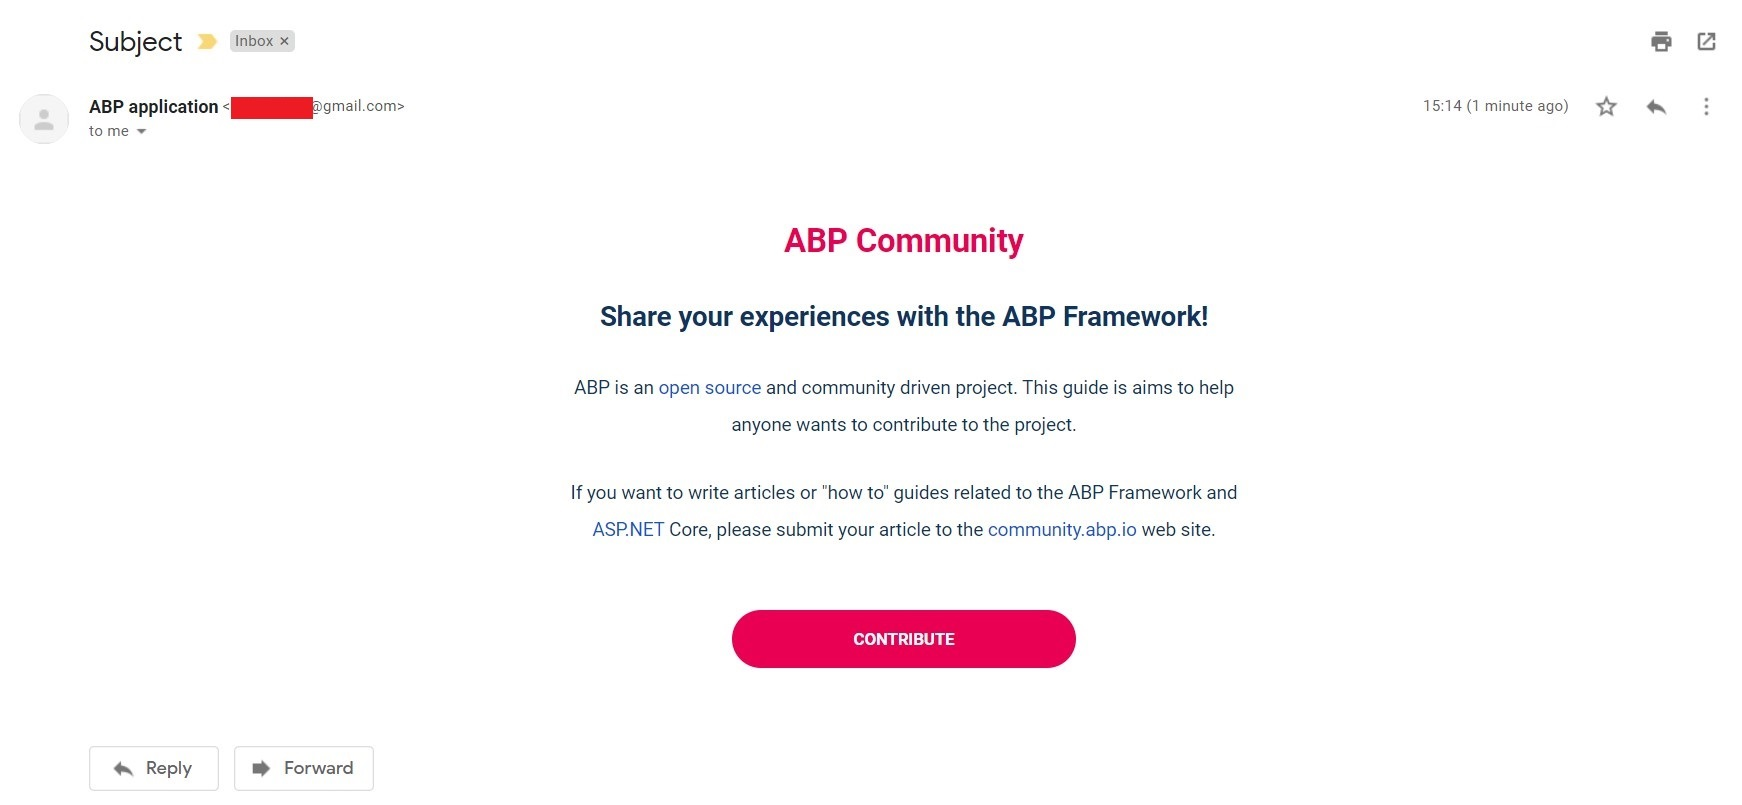
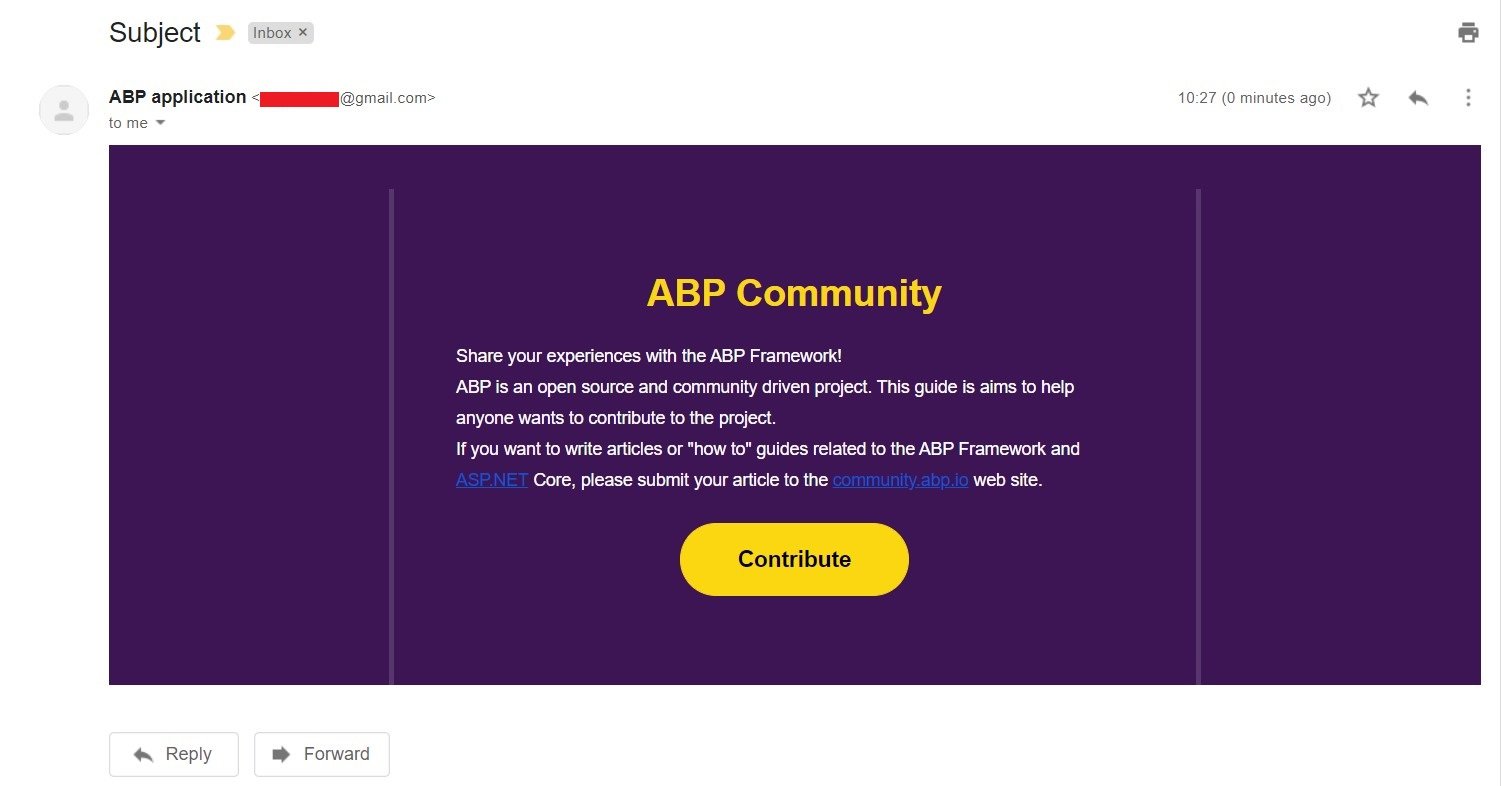
Update POST.md

diff --git a/docs/en/Community-Articles/2020-09-09-Replacing-Email-Template-and-Sending-Emails/POST.md b/docs/en/Community-Articles/2020-09-09-Replacing-Email-Template-and-Sending-Emails/POST.md
@@ -2,7 +2,7 @@
 
 ## Introduction
 
-Hi, in this step by step article, we will send an email by using standard email template and then we will replace the standard email template with our new created template, thanks to [Text Templating System](https://docs.abp.io/en/abp/latest/Text-Templating#replacing-the-existing-templates) and [Virtual File System](https://docs.abp.io/en/abp/latest/Virtual-File-System).
+Hi, in this step by step article, we will send an email by using standard email template and then we will replace the standard email template with our new created template, thanks to [Text Templating System](https://docs.abp.io/en/abp/latest/Text-Templating#replacing-the-existing-templates) and [Virtual File System](https://docs.abp.io/en/abp/latest/Virtual-File-System). Let's start by explaining what these systems do.
 
 * ABP framework provides a strong and flexible [Text Templating System](https://docs.abp.io/en/abp/latest/Text-Templating). So, we can use the text templating system to create dynamic email contents on a template and a model.
 
@@ -194,7 +194,7 @@ namespace TemplateReplace
 
 ```
 
-* `NullEmailSender` is a built-in class that implements the `IEmailSender`, but writes email contents to the standard log system, rather than actually sending the emails. This class can be useful especially in development time where you generally don't want to send real emails. Therefore ABP framework defined this by default. But we want to send real emails, so we must remove these lines or we should take it to the comment line.
+* `NullEmailSender` is a built-in class that implements the `IEmailSender`, but writes email contents to the standard log system, rather than actually sending the emails. This class can be useful especially in development time where you generally don't want to send real emails. Therefore ABP framework defined this by default. But we want to send real emails, so we must remove these lines or we must take it to the comment line.
 
 * The last thing we need to do is delete the default email settings from `appsettings.json` file in `TemplateReplace.Web`.
 
@@ -210,68 +210,166 @@ namespace TemplateReplace
 
 * So far we've sent mail by using standard email template of ABP. But we may want to replace the email template with the new one. We can achieve this by following the `Text Templating` [documentation](https://docs.abp.io/en/abp/latest/Text-Templating#replacing-the-existing-templates).
 
-* In this article, I will create a email template by using free template generator named `Bee`. You can reach the free templates from [here](https://beefree.io/templates/free/).
+* In this article, I will create a email template by using free template generator named **Bee**. You can reach the free templates from [here](https://beefree.io/templates/free/).
 
-* After choosing our free template, we can create a new **email template**. So, create a folder named `Templates` under `Emailing` folder in `TemplateReplace.Domain` and add `EmailTemplate.tpl` file inside of it. And copy-paste the below content or your free template's content.
+* When we find a template for our purpose, we can hover the link and click the get started button to edit the template. (I chose a template named "gdpr".)
+
+* Here, you can edit your template as below. (You can delete or add sections, edit texts, and so on.)
+
+![bee](bee.gif)
+
+> **Note:** After editing our template, we need to export it to reach our created template's content. You can see the **export** button top-right of the template editing page.
+
+* After choosing and editing our free template, we can create a new **email template** in our project. For this, create a folder named `Templates` under `Emailing` folder in `TemplateReplace.Domain` and add `EmailTemplate.tpl` file inside of it. And copy-paste the below content or your template's content.
 
 ```tpl
-<!DOCTYPE html>
-<html lang="en">
-<head>
-    <meta charset="UTF-8">
-    <meta name="viewport" content="width=device-width, initial-scale=1.0">
-    <style>
-        a {
-          text-decoration: none !important;
-        }
-        td img {
-            color: #0f3462;
-        }
-        
-        table {
-            max-width: 650px;
-        }
-    </style>
-</head>
-<body>
-<div class="container">
-    <table border="0" align="center" cellspacing="0" cellpadding="0" bgcolor="white" class="email-template">
-        <tr>
-            <td>
-                <table border="0" cellspacing="0" cellpadding="0" style="color:#0f3462; font-family: sans-serif;">
-                    <tr>
-                        <td>
-                            <h2 style="text-align:center; margin: 0px; padding-bottom: 25px; margin-top: 25px;">
-                                <span style="color:lightcoral"></span>
-                            </h2>
-                        </td>
-                    </tr>
-                    <tr>
-                        <td style="text-align: center;">
-                            <h1 style="margin: 0px;padding-bottom: 25px; color: #E90052">ABP Community</h1>
-                            <h2 style="margin: 0px;padding-bottom: 25px;font-size:22px;">Share your experiences with the ABP Framework!</h2>
-                            <p style=" margin: 0px 40px;padding-bottom: 25px;line-height: 2; font-size: 15px;">
-                                ABP is an <a href="https://github.com/abpframework">open source</a> and community driven project. This guide is aims to help anyone wants to contribute to the project.
-                            </p>
-                            <p style=" margin: 0px 32px;padding-bottom: 25px;line-height: 2; font-size: 15px;">
-                                If you want to write articles or "how to" guides related to the ABP Framework and ASP.NET Core, please submit your article to the <a href="https://community.abp.io/">community.abp.io</a> web site.
-                            </p>
-                        </td>
-                    </tr>
-                    <tr>
-                        <td>
-                            <button type="button" style="background-color:#E90052; color:white; padding:15px 97px; outline: none; display: block; margin: auto; border-radius: 31px;
-                                    font-weight: bold; margin-top: 25px; margin-bottom: 25px; border: none; text-transform:uppercase; ">
-                                <a style="text-decoration: none; color:white" href="https://community.abp.io/articles/submit">Contribute</a>
-                            </button>
-                        </td>
-                    </tr>
-                </table>
-            </td>
-        </tr>
-    </table>
-</div>
-</body>
+<!DOCTYPE html PUBLIC "-//W3C//DTD XHTML 1.0 Transitional //EN" "http://www.w3.org/TR/xhtml1/DTD/xhtml1-transitional.dtd">
+<html xmlns="http://www.w3.org/1999/xhtml" xmlns:o="urn:schemas-microsoft-com:office:office" xmlns:v="urn:schemas-microsoft-com:vml">
+   <head>
+      <meta content="text/html; charset=utf-8" http-equiv="Content-Type"/>
+      <meta content="width=device-width" name="viewport"/>
+      <meta content="IE=edge" http-equiv="X-UA-Compatible"/>
+      <style type="text/css">
+         body {
+         margin: 0;
+         padding: 0;
+         }
+         table,
+         td,
+         tr {
+         vertical-align: top;
+         border-collapse: collapse;
+         }
+         * {
+         line-height: inherit;
+         }
+         a[x-apple-data-detectors=true] {
+         color: inherit !important;
+         text-decoration: none !important;
+         }
+      </style>
+      <style id="media-query" type="text/css">
+         @media (max-width: 670px) {
+         .block-grid,
+         .col {
+         min-width: 320px !important;
+         max-width: 100% !important;
+         display: block !important;
+         }
+         .block-grid {
+         width: 100% !important;
+         }
+         .col {
+         width: 100% !important;
+         }
+         .col>div {
+         margin: 0 auto;
+         }
+         img.fullwidth,
+         img.fullwidthOnMobile {
+         max-width: 100% !important;
+         }
+         .no-stack .col {
+         min-width: 0 !important;
+         display: table-cell !important;
+         }
+         .no-stack.two-up .col {
+         width: 50% !important;
+         }
+         .no-stack .col.num2 {
+         width: 16.6% !important;
+         }
+         .no-stack .col.num3 {
+         width: 25% !important;
+         }
+         .no-stack .col.num4 {
+         width: 33% !important;
+         }
+         .no-stack .col.num5 {
+         width: 41.6% !important;
+         }
+         .no-stack .col.num6 {
+         width: 50% !important;
+         }
+         .no-stack .col.num7 {
+         width: 58.3% !important;
+         }
+         .no-stack .col.num8 {
+         width: 66.6% !important;
+         }
+         .no-stack .col.num9 {
+         width: 75% !important;
+         }
+         .no-stack .col.num10 {
+         width: 83.3% !important;
+         }
+         .video-block {
+         max-width: none !important;
+         }
+         .mobile_hide {
+         min-height: 0px;
+         max-height: 0px;
+         max-width: 0px;
+         display: none;
+         overflow: hidden;
+         font-size: 0px;
+         }
+         .desktop_hide {
+         display: block !important;
+         max-height: none !important;
+         }
+         }
+      </style>
+   </head>
+   <body class="clean-body" style="margin: 0; padding: 0; -webkit-text-size-adjust: 100%; background-color: #3d1554;">
+      <table bgcolor="#3d1554" cellpadding="0" cellspacing="0" class="nl-container" role="presentation" style="table-layout: fixed; vertical-align: top; min-width: 320px; border-spacing: 0; border-collapse: collapse; mso-table-lspace: 0pt; mso-table-rspace: 0pt; background-color: #3d1554; width: 100%;" valign="top" width="100%">
+         <tbody>
+            <tr style="vertical-align: top;" valign="top">
+               <td style="word-break: break-word; vertical-align: top;" valign="top">
+                  <div style="background-color:transparent;overflow:hidden">
+                     <div class="block-grid" style="min-width: 320px; max-width: 650px; overflow-wrap: break-word; word-wrap: break-word; word-break: break-word; Margin: 0 auto; width: 100%; background-color: transparent;">
+                        <div style="border-collapse: collapse;display: table;width: 100%;background-color:transparent;">
+                           <div class="col num12" style="min-width: 320px; max-width: 650px; display: table-cell; vertical-align: top; width: 650px;">
+                              <div style="width:100% !important;">
+                                 <div style="border-top:0px solid transparent; border-left:0px solid transparent; border-bottom:0px solid transparent; border-right:0px solid transparent; padding-top:35px; padding-bottom:0px; padding-right: 0px; padding-left: 0px;">
+                                    <div align="center" class="img-container center autowidth" style="padding-right: 0px;padding-left: 0px;"></div>
+                                 </div>
+                              </div>
+                           </div>
+                        </div>
+                     </div>
+                  </div>
+                  <div style="background-color:transparent;overflow:hidden">
+                     <div class="block-grid" style="min-width: 320px; max-width: 650px; overflow-wrap: break-word; word-wrap: break-word; word-break: break-word; Margin: 0 auto; width: 100%; background-color: transparent;">
+                        <div style="border-collapse: collapse;display: table;width: 100%;background-color:transparent;">
+                           <div class="col num12" style="min-width: 320px; max-width: 650px; display: table-cell; vertical-align: top; width: 642px;">
+                              <div style="width:100% !important;">
+                                 <div style="border-top:0px solid transparent; border-left:4px solid #57366E; border-bottom:0px solid transparent; border-right:4px solid #57366E; padding-top:55px; padding-bottom:60px; padding-right: 0px; padding-left: 0px;">
+                                    <div style="color:#fbd711;font-family:Poppins, Arial, Helvetica, sans-serif;line-height:1.2;padding-top:10px;padding-right:10px;padding-bottom:10px;padding-left:10px;">
+                                       <div style="line-height: 1.2; font-size: 12px; color: #fbd711; font-family: Poppins, Arial, Helvetica, sans-serif; mso-line-height-alt: 14px;">
+                                          <p style="font-size: 14px; line-height: 1.2; word-break: break-word; text-align: center; mso-line-height-alt: 17px; margin: 0;"><strong><span style="font-size: 30px;">ABP Community </span></strong></p>
+                                       </div>
+                                    </div>
+                                    <div style="color:#ffffff;font-family:Poppins, Arial, Helvetica, sans-serif;line-height:1.8;padding-top:10px;padding-right:50px;padding-bottom:10px;padding-left:50px;">
+                                       <div style="line-height: 1.8; font-size: 12px; color: #ffffff; font-family: Poppins, Arial, Helvetica, sans-serif; mso-line-height-alt: 22px;">
+                                          <p style="line-height: 1.8; word-break: break-word; font-size: 14px; mso-line-height-alt: 25px; margin: 0;"><span style="font-size: 14px;">Share your experiences with the ABP Framework!</span><br/><span style="font-size: 14px;">ABP is an open source and community driven project. This guide is aims to help anyone wants to contribute to the project.</span></p>
+                                          <p style="line-height: 1.8; word-break: break-word; font-size: 14px; mso-line-height-alt: 25px; margin: 0;"><span style="font-size: 14px;">If you want to write articles or "how to" guides related to the ABP Framework and ASP.NET Core, please submit your article to the community.abp.io web site.</span></p>
+                                       </div>
+                                    </div>
+                                    <div align="center" class="button-container" style="padding-top:12px;padding-right:10px;padding-bottom:12px;padding-left:10px;">
+                                       <a href="http://www.example.com/" style="-webkit-text-size-adjust: none; text-decoration: none; display: inline-block; color: #000000; background-color: #fbd711; border-radius: 30px; -webkit-border-radius: 30px; -moz-border-radius: 30px; width: auto; width: auto; border-top: 1px solid #fbd711; border-right: 1px solid #fbd711; border-bottom: 1px solid #fbd711; border-left: 1px solid #fbd711; padding-top: 10px; padding-bottom: 10px; font-family: Poppins, Arial, Helvetica, sans-serif; text-align: center; mso-border-alt: none; word-break: keep-all;" target="_blank"><span style="padding-left:45px;padding-right:45px;font-size:18px;display:inline-block;"><span style="font-size: 16px; line-height: 2; word-break: break-word; mso-line-height-alt: 32px;"><span data-mce-style="font-size: 18px; line-height: 36px;" style="font-size: 18px; line-height: 36px;"><strong>Contribute</strong></span></span></span></a>
+                                    </div>
+                                 </div>
+                              </div>
+                           </div>
+                        </div>
+                     </div>
+                  </div>
+               </td>
+            </tr>
+         </tbody>
+      </table>
+   </body>
 </html>
 ```
 
@@ -371,7 +469,7 @@ namespace TemplateReplace
 
 ```
 
-* And now when we want to send a new email, we should see the our new defined template as the message like below.
+* And now when we want to send a new email, we should see our newly defined template as the message like below.
 
 ![email-last](email-last.jpg)
 
